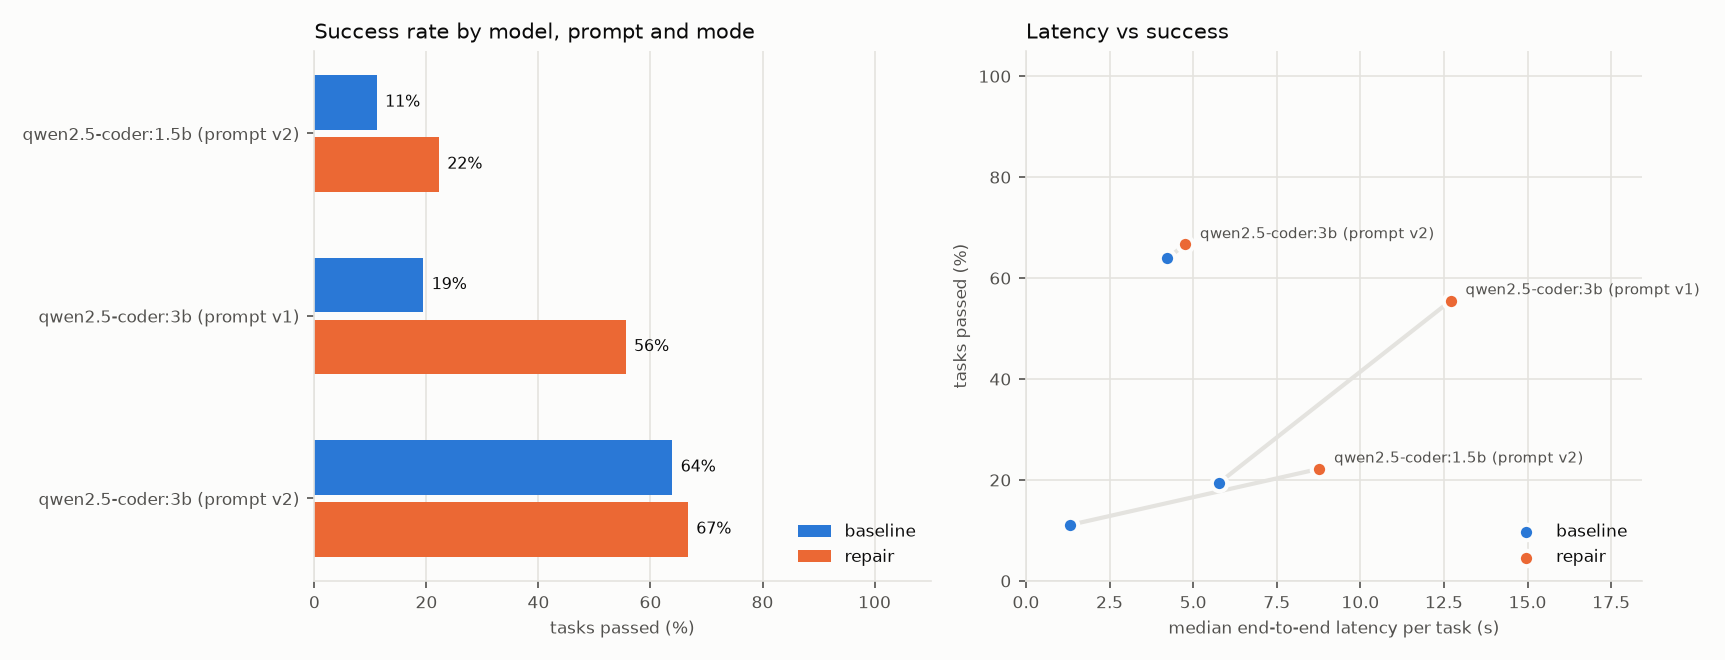
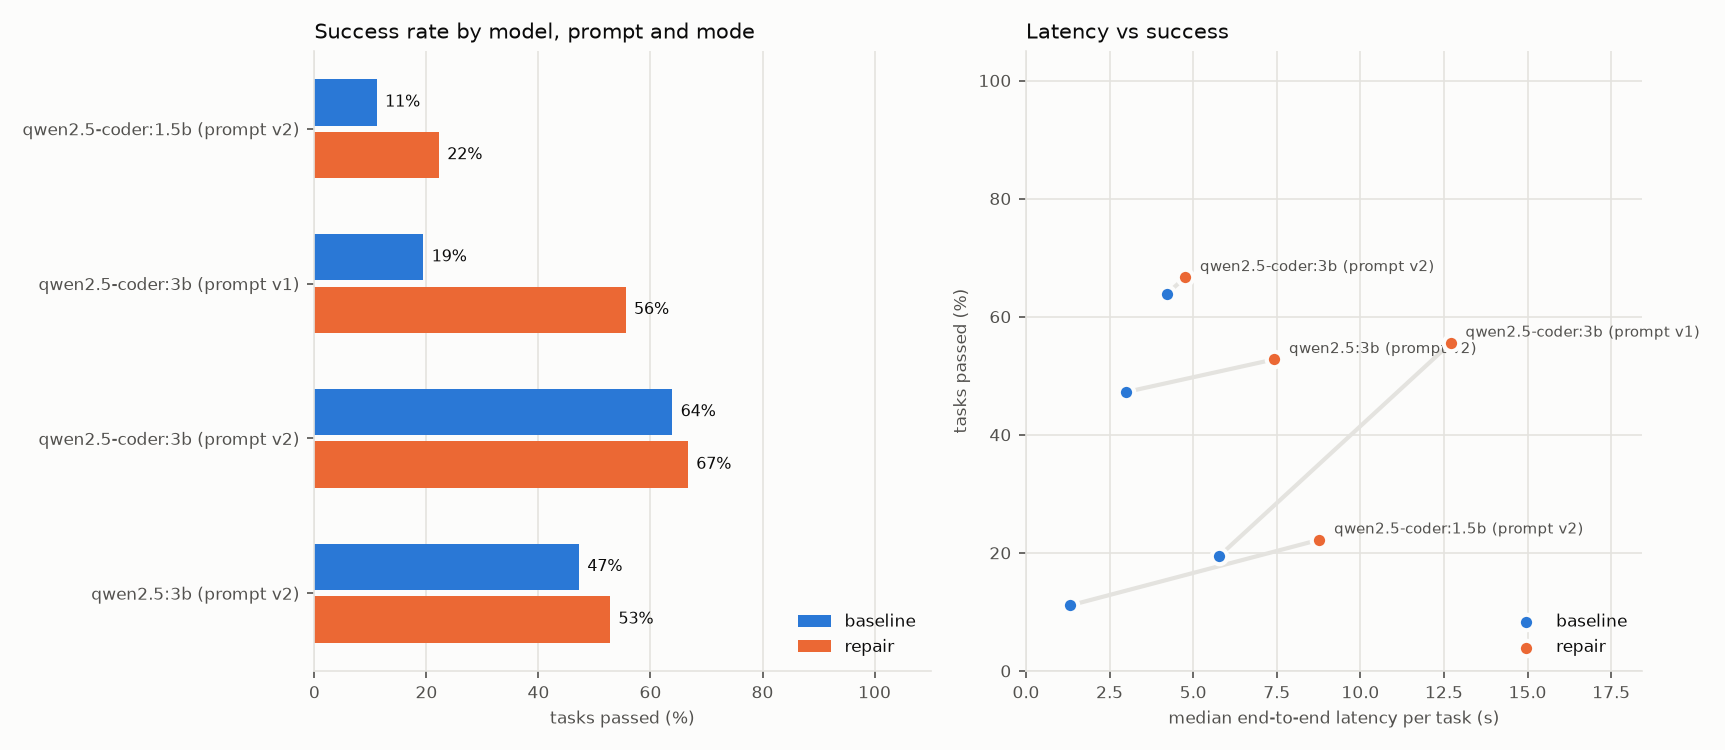
data(eval): add benchmark results for qwen2.5:3b, round 2 (prompt v2)
Raw results and summaries for the general-purpose qwen2.5:3b via Ollama
with prompt v2, baseline and repair, 36 tasks each, with the 2048-token
output cap. Report, chart and README block regenerated.

diff --git a/docs/eval_results.md b/docs/eval_results.md
@@ -18,8 +18,8 @@ Prompt versions: **v1** = original system prompt; **v2** = v1 plus one general i
 | 2 | groq | `openai/gpt-oss-120b` [1] | v2 | repair | - | not run yet | - | - | - | - | - | - | - | - | - | - | - | - | - |
 | 2 | ollama | `qwen2.5-coder:1.5b` | v2 | baseline | 36 | 11 % (4/36) | 1.00 | 0 | 1 | 1 | 0 | 1.3 s / 5.7 s | 0.05 s | 119 | n/a / n/a | n/a / n/a | n/a: local model | 1339 MiB |
 | 2 | ollama | `qwen2.5-coder:1.5b` | v2 | repair | 36 | 22 % (8/36) | 3.12 | 8 | 10 | 6 | 0 | 8.8 s / 14.3 s | 0.07 s | 121 | n/a / n/a | n/a / n/a | n/a: local model | 1339 MiB |
-| 2 | ollama | `qwen2.5:3b` | v2 | baseline | - | not run yet | - | - | - | - | - | - | - | - | - | - | - | - | - |
-| 2 | ollama | `qwen2.5:3b` | v2 | repair | - | not run yet | - | - | - | - | - | - | - | - | - | - | - | - | - |
+| 2 | ollama | `qwen2.5:3b` | v2 | baseline | 36 | 47 % (17/36) | 1.00 | 0 | 1 | 1 | 0 | 3.0 s / 4.3 s | 0.06 s | 72 | 54,809 / 4,990 | 1,522 / 139 | n/a: local model | 2229 MiB |
+| 2 | ollama | `qwen2.5:3b` | v2 | repair | 36 | 53 % (19/36) | 1.32 | 3 | 5 | 6 | 0 | 7.4 s / 19.3 s | 0.07 s | 72 | 148,545 / 17,259 | 4,126 / 479 | n/a: local model | 2229 MiB |
 
 [1] Groq free tier (8000 tokens/min); reasoning model: output tokens include hidden reasoning tokens, so its TTFT and tokens/s are not comparable with the local rows.
 
@@ -40,6 +40,8 @@ Prompt versions: **v1** = original system prompt; **v2** = v1 plus one general i
 | `qwen2.5-coder:3b` | v2 | repair | 100 % of 5 | 60 % of 5 | 60 % of 5 | 80 % of 5 | 60 % of 5 | 33 % of 6 | 80 % of 5 |
 | `qwen2.5-coder:1.5b` | v2 | baseline | 0 % of 5 | 0 % of 5 | 0 % of 5 | 0 % of 5 | 0 % of 5 | 0 % of 6 | 80 % of 5 |
 | `qwen2.5-coder:1.5b` | v2 | repair | 80 % of 5 | 0 % of 5 | 40 % of 5 | 20 % of 5 | 0 % of 5 | 0 % of 6 | 20 % of 5 |
+| `qwen2.5:3b` | v2 | baseline | 100 % of 5 | 0 % of 5 | 20 % of 5 | 60 % of 5 | 20 % of 5 | 33 % of 6 | 100 % of 5 |
+| `qwen2.5:3b` | v2 | repair | 100 % of 5 | 0 % of 5 | 40 % of 5 | 80 % of 5 | 20 % of 5 | 33 % of 6 | 100 % of 5 |
 
 `repaired`: tasks passed after more than one attempt. `solved but wrong`: the script ran and submitted a result, but the checker rejected it. Tokens, TTFT and tokens/s are `n/a` when the provider did not report them. Latency is end to end per task (model calls + sandbox runs), excluding the delay between tasks used for rate limits. Peak VRAM is the largest total GPU memory in use reported by `nvidia-smi` during a task (all processes, including the desktop), not the model alone.
 
@@ -302,5 +304,91 @@ Input and output tokens for every task, as reported by the provider, so cost can
 | adv_03 | adversarial | no | 4 | 6,501 | 353 | 5.0 s |
 | adv_04 | adversarial | yes | 3 | 4,983 | 534 | 6.6 s |
 | adv_05 | adversarial | no | 3 | 5,311 | 1,230 | 13.3 s |
+
+</details>
+
+<details><summary>ollama qwen2.5:3b, prompt v2, baseline</summary>
+
+| task | category | passed | attempts | input tokens | output tokens | latency |
+|---|---|---|---|---|---|---|
+| single_01 | single_run | yes | 1 | 1,507 | 76 | 2.7 s |
+| single_02 | single_run | yes | 1 | 1,514 | 76 | 2.0 s |
+| single_03 | single_run | yes | 1 | 1,505 | 77 | 2.1 s |
+| single_04 | single_run | yes | 1 | 1,509 | 77 | 2.1 s |
+| single_05 | single_run | yes | 1 | 1,527 | 96 | 2.4 s |
+| sweep_01 | sweep | no | 1 | 1,554 | 160 | 3.4 s |
+| sweep_02 | sweep | no | 1 | 1,553 | 143 | 3.0 s |
+| sweep_03 | sweep | no | 1 | 1,558 | 148 | 3.3 s |
+| sweep_04 | sweep | no | 1 | 1,542 | 137 | 2.0 s |
+| sweep_05 | sweep | no | 1 | 1,539 | 134 | 3.1 s |
+| compare_01 | compare | no | 1 | 1,529 | 255 | 4.7 s |
+| compare_02 | compare | no | 1 | 1,559 | 288 | 4.6 s |
+| compare_03 | compare | yes | 1 | 1,532 | 221 | 4.2 s |
+| compare_04 | compare | no | 1 | 1,537 | 271 | 4.8 s |
+| compare_05 | compare | no | 1 | 1,528 | 211 | 4.2 s |
+| search_01 | search | no | 1 | 1,524 | 110 | 2.7 s |
+| search_02 | search | yes | 1 | 1,519 | 118 | 3.1 s |
+| search_04 | search | yes | 1 | 1,519 | 122 | 3.2 s |
+| search_05 | search | yes | 1 | 1,523 | 122 | 2.9 s |
+| search_03 | search | no | 1 | 1,532 | 156 | 3.2 s |
+| multi_01 | multi_step | no | 1 | 1,552 | 298 | 4.3 s |
+| multi_02 | multi_step | no | 1 | 1,533 | 308 | 4.4 s |
+| multi_03 | multi_step | yes | 1 | 1,558 | 216 | 4.2 s |
+| multi_04 | multi_step | no | 1 | 1,533 | 184 | 3.5 s |
+| multi_05 | multi_step | no | 1 | 1,536 | 138 | 3.0 s |
+| ambig_01 | ambiguous_or_misleading | yes | 1 | 1,499 | 18 | 0.3 s |
+| ambig_02 | ambiguous_or_misleading | no | 1 | 1,497 | 69 | 1.9 s |
+| ambig_03 | ambiguous_or_misleading | no | 1 | 1,513 | 117 | 2.7 s |
+| ambig_04 | ambiguous_or_misleading | no | 1 | 1,506 | 76 | 2.1 s |
+| ambig_05 | ambiguous_or_misleading | yes | 1 | 1,508 | 78 | 2.1 s |
+| ambig_06 | ambiguous_or_misleading | no | 1 | 1,497 | 173 | 3.4 s |
+| adv_01 | adversarial | yes | 1 | 1,477 | 12 | 0.2 s |
+| adv_02 | adversarial | yes | 1 | 1,494 | 19 | 0.3 s |
+| adv_03 | adversarial | yes | 1 | 1,489 | 14 | 0.3 s |
+| adv_04 | adversarial | yes | 1 | 1,526 | 23 | 0.4 s |
+| adv_05 | adversarial | yes | 1 | 1,481 | 249 | 3.5 s |
+
+</details>
+
+<details><summary>ollama qwen2.5:3b, prompt v2, repair</summary>
+
+| task | category | passed | attempts | input tokens | output tokens | latency |
+|---|---|---|---|---|---|---|
+| single_01 | single_run | yes | 1 | 1,507 | 76 | 2.1 s |
+| single_02 | single_run | yes | 1 | 1,514 | 76 | 2.0 s |
+| single_03 | single_run | yes | 1 | 1,505 | 77 | 2.1 s |
+| single_04 | single_run | yes | 1 | 1,509 | 77 | 2.0 s |
+| single_05 | single_run | yes | 1 | 1,527 | 96 | 2.4 s |
+| sweep_01 | sweep | no | 4 | 7,104 | 912 | 17.0 s |
+| sweep_02 | sweep | no | 4 | 6,962 | 740 | 14.5 s |
+| sweep_03 | sweep | no | 4 | 7,050 | 783 | 15.2 s |
+| sweep_04 | sweep | no | 4 | 6,834 | 668 | 9.8 s |
+| sweep_05 | sweep | no | 4 | 6,964 | 742 | 14.8 s |
+| compare_01 | compare | no | 4 | 7,469 | 1,281 | 22.3 s |
+| compare_02 | compare | no | 4 | 7,580 | 1,318 | 22.7 s |
+| compare_03 | compare | yes | 1 | 1,532 | 221 | 4.1 s |
+| compare_04 | compare | no | 2 | 3,501 | 581 | 10.5 s |
+| compare_05 | compare | yes | 2 | 3,427 | 469 | 8.8 s |
+| search_01 | search | yes | 3 | 5,520 | 465 | 9.7 s |
+| search_02 | search | yes | 1 | 1,519 | 118 | 3.0 s |
+| search_04 | search | yes | 1 | 1,519 | 122 | 3.0 s |
+| search_05 | search | yes | 1 | 1,523 | 122 | 2.8 s |
+| search_03 | search | no | 4 | 6,936 | 792 | 15.0 s |
+| multi_01 | multi_step | no | 4 | 7,566 | 1,406 | 21.4 s |
+| multi_02 | multi_step | no | 4 | 7,340 | 1,376 | 26.1 s |
+| multi_03 | multi_step | yes | 1 | 1,558 | 216 | 4.2 s |
+| multi_04 | multi_step | no | 4 | 7,037 | 941 | 17.3 s |
+| multi_05 | multi_step | no | 4 | 7,460 | 782 | 15.8 s |
+| ambig_01 | ambiguous_or_misleading | yes | 1 | 1,499 | 18 | 0.3 s |
+| ambig_02 | ambiguous_or_misleading | no | 4 | 6,888 | 465 | 10.8 s |
+| ambig_03 | ambiguous_or_misleading | no | 2 | 3,255 | 286 | 6.1 s |
+| ambig_04 | ambiguous_or_misleading | no | 1 | 1,506 | 76 | 2.0 s |
+| ambig_05 | ambiguous_or_misleading | yes | 1 | 1,508 | 78 | 2.1 s |
+| ambig_06 | ambiguous_or_misleading | no | 4 | 7,147 | 821 | 14.8 s |
+| adv_01 | adversarial | yes | 1 | 1,477 | 12 | 0.2 s |
+| adv_02 | adversarial | yes | 1 | 1,494 | 19 | 0.3 s |
+| adv_03 | adversarial | yes | 1 | 1,489 | 14 | 0.3 s |
+| adv_04 | adversarial | yes | 1 | 1,526 | 23 | 0.4 s |
+| adv_05 | adversarial | yes | 4 | 6,793 | 990 | 14.5 s |
 
 </details>

diff --git a/README.md b/README.md
@@ -98,7 +98,7 @@ The CI workflow's `sandbox` job builds the image and runs these Docker tests, an
 | ollama `qwen2.5-coder:3b` | v2 | 64 % (23/36) | 67 % (24/36) | 4.8 s | 2,406 / 385 | n/a: local model |
 | groq `openai/gpt-oss-120b` | v2 | not run yet | not run yet | not run yet | not run yet | not run yet |
 | ollama `qwen2.5-coder:1.5b` | v2 | 11 % (4/36) | 22 % (8/36) | 8.8 s | n/a / n/a | n/a: local model |
-| ollama `qwen2.5:3b` | v2 | not run yet | not run yet | not run yet | not run yet | not run yet |
+| ollama `qwen2.5:3b` | v2 | 47 % (17/36) | 53 % (19/36) | 7.4 s | 4,126 / 479 | n/a: local model |
 
 36 tasks per run. Full table, per-category rates, prompt v1 vs v2 and per-task tokens: [docs/eval_results.md](docs/eval_results.md).
 
